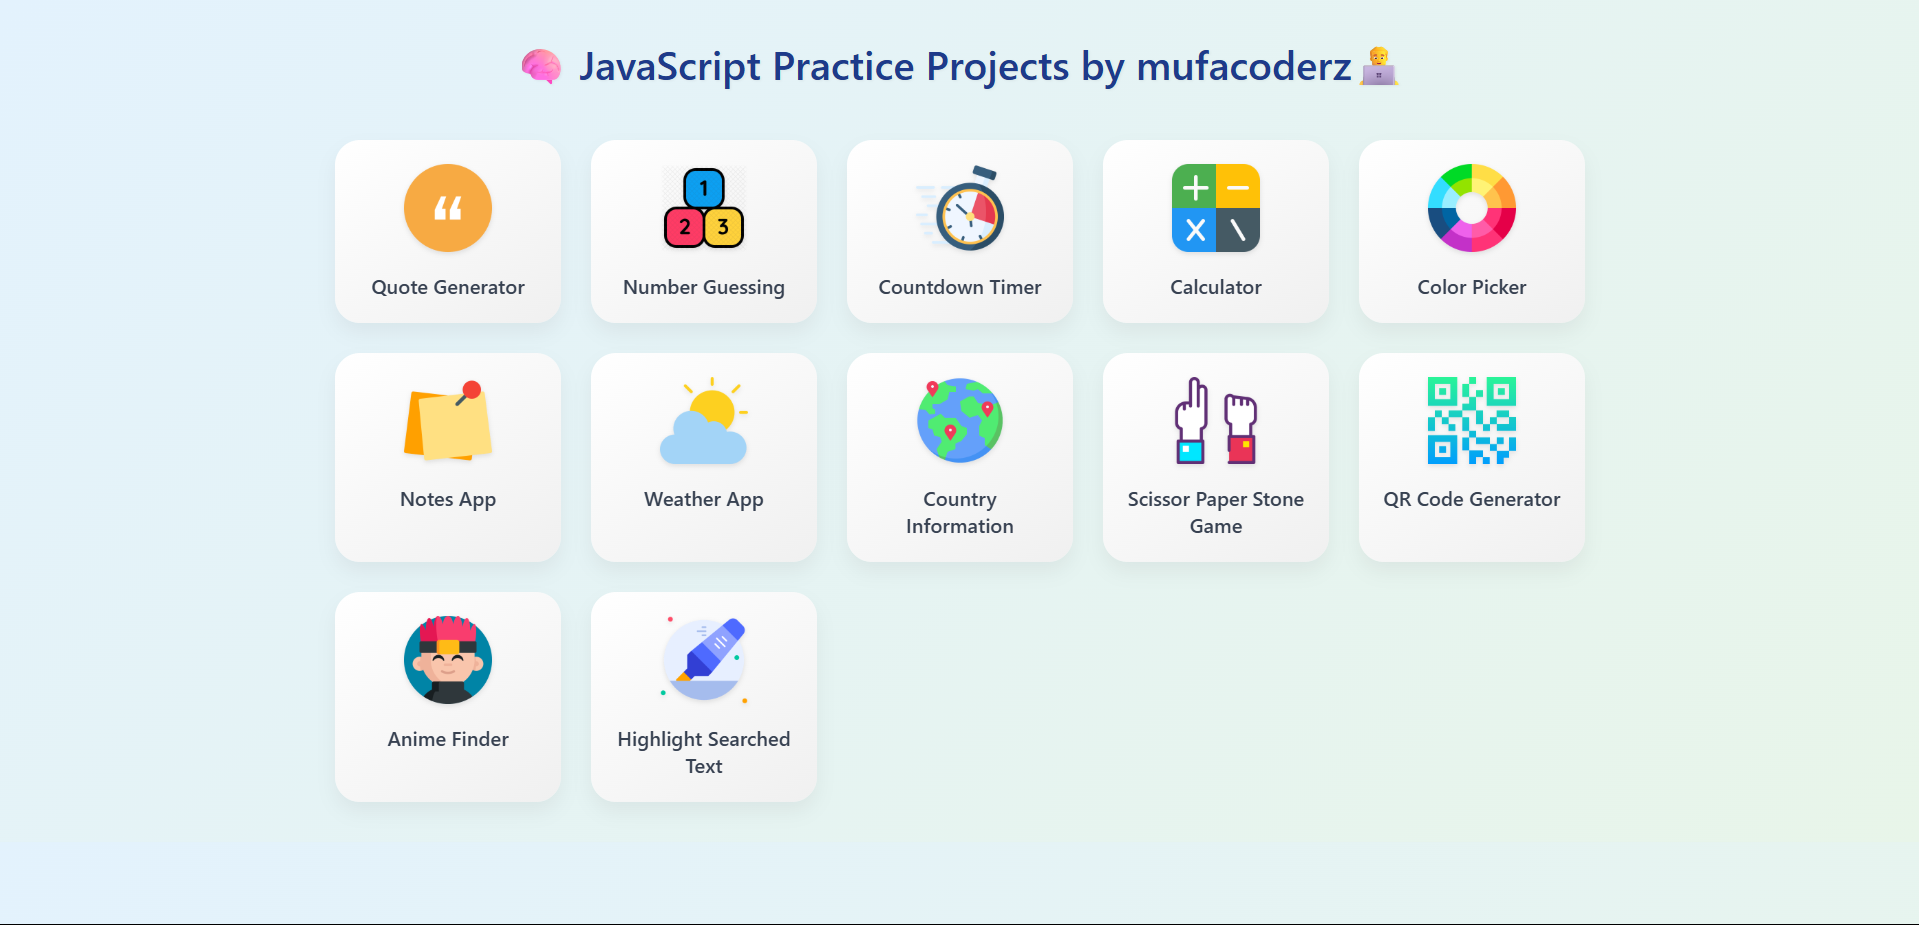
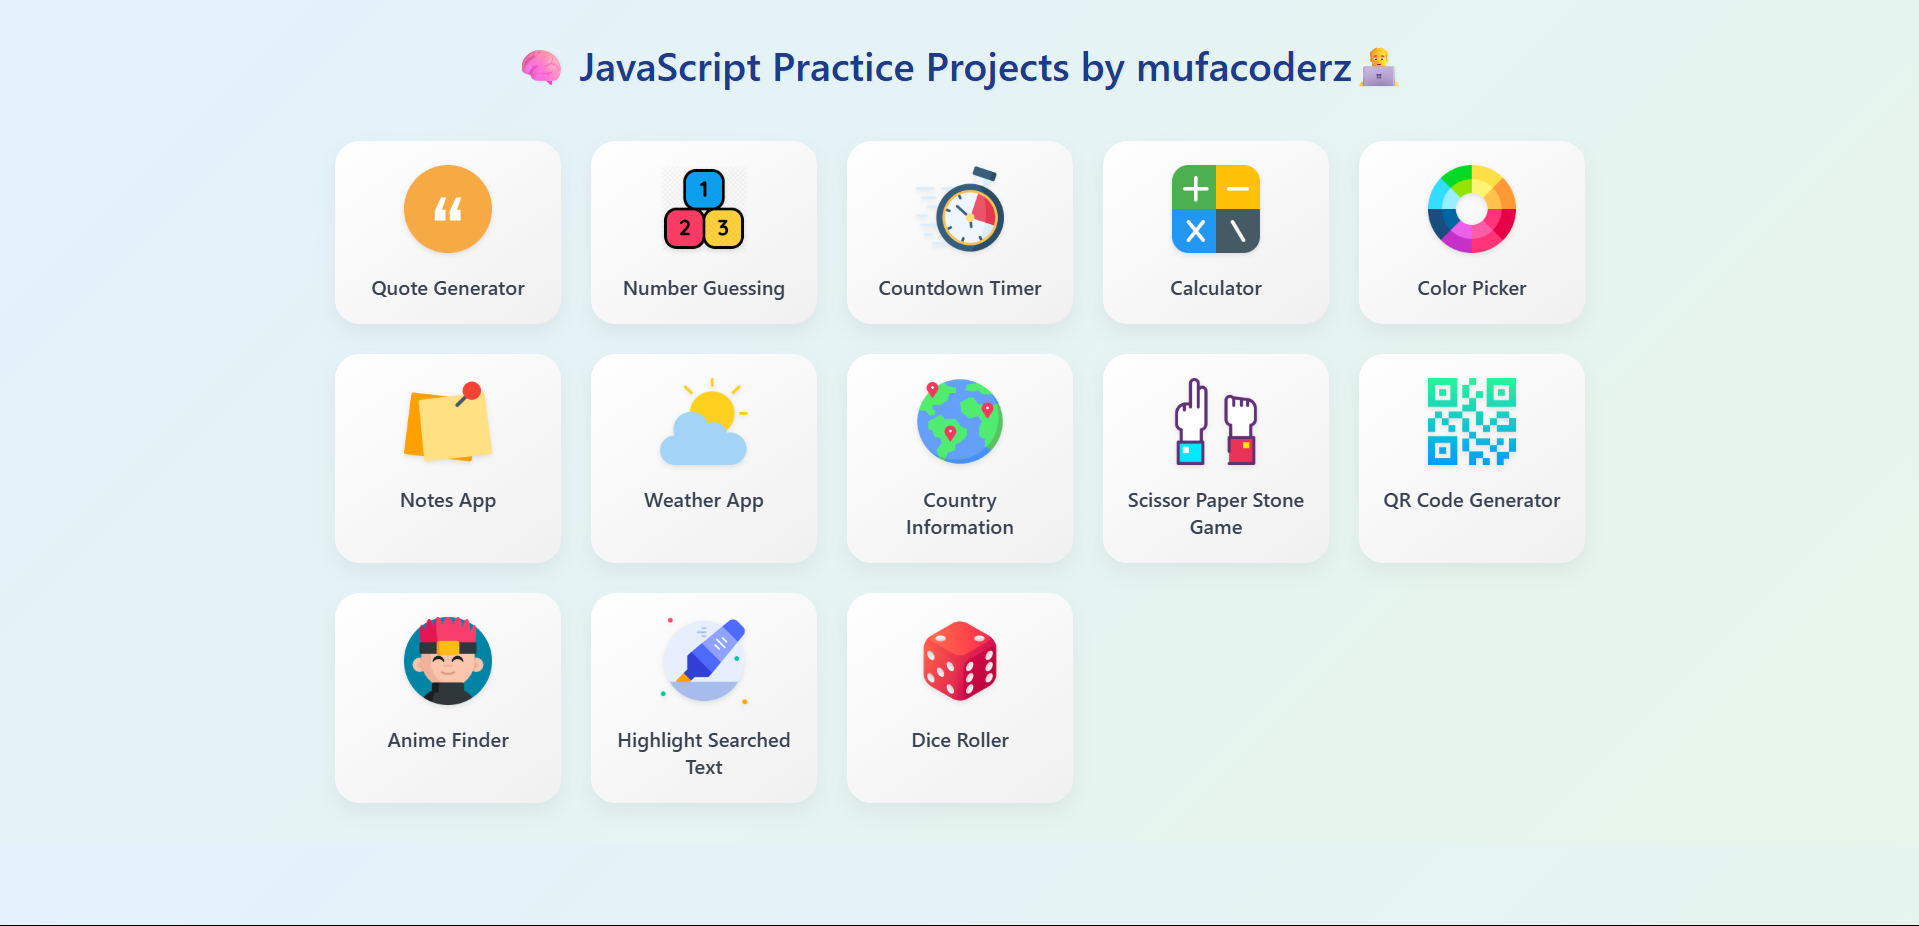
update homepage

diff --git a/index.html b/index.html
@@ -136,6 +136,10 @@ h1 {
       <img src="projects/Highlight Searched Text/pen.png" alt="yexy" />
       <a href="projects/Highlight Searched Text/index.html">Highlight Searched Text</a>
     </div>
+    <div class="card">
+      <img src="projects/Dice Roller/dice.png" alt="yexy" />
+      <a href="projects/Dice Roller/index.html">Dice Roller</a>
+    </div>
   </div>
 </body>
 </html>
